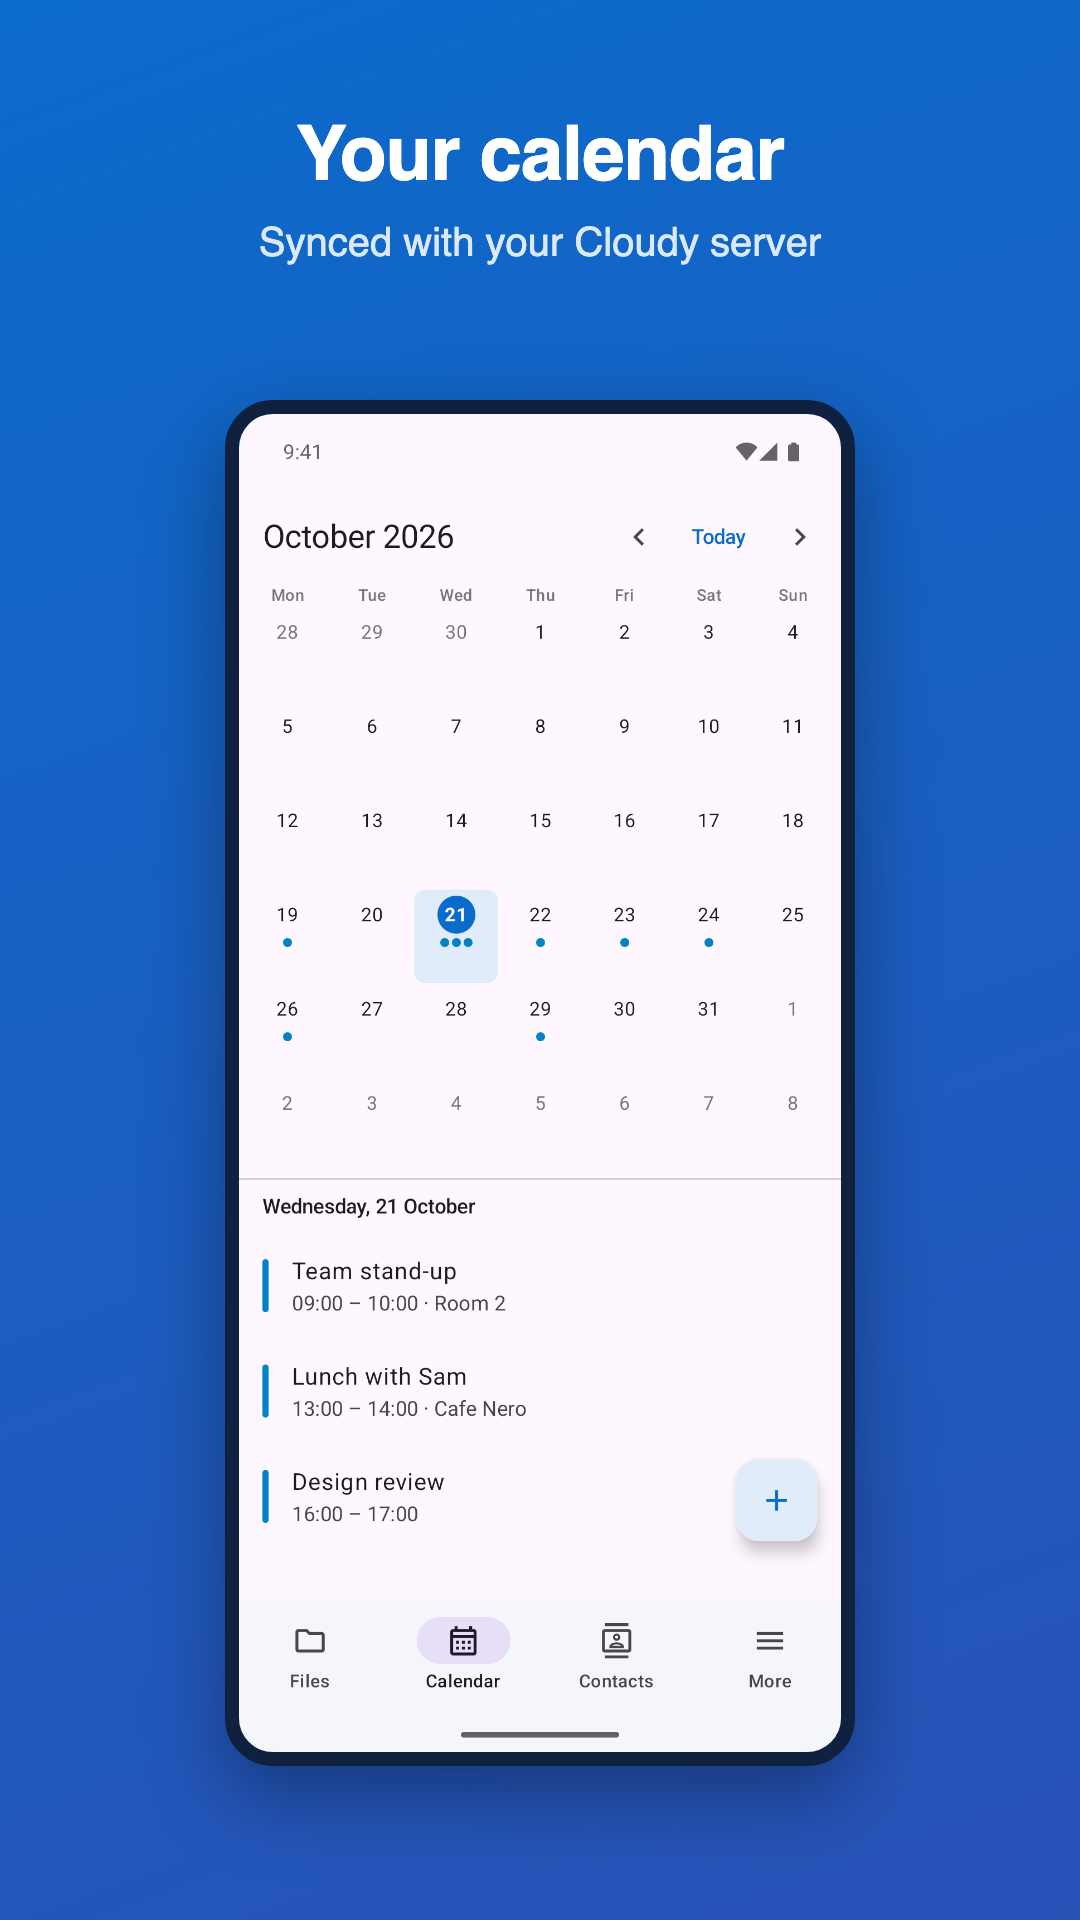
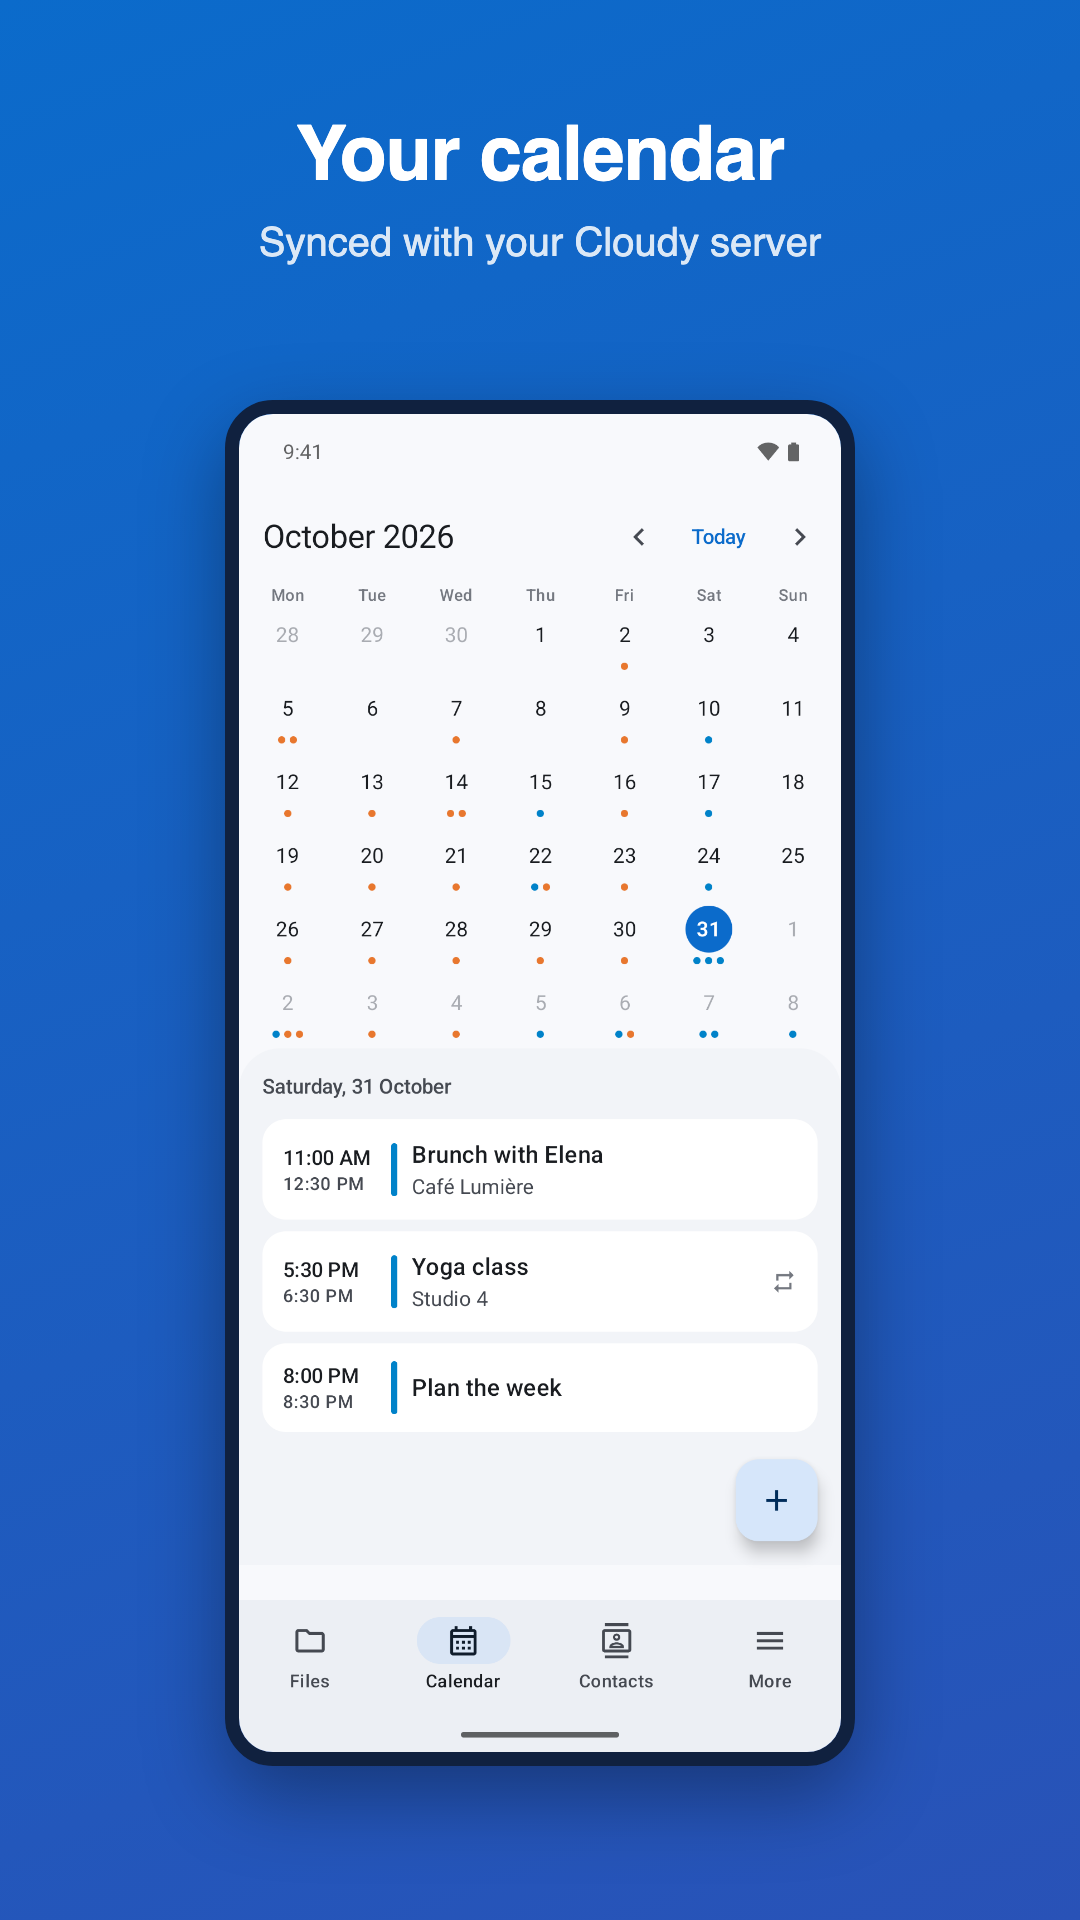
New screenshots after the 1.11 redesign: website, Google Play, App Store
Android and iPhone screenshots on the website and the Google Play images
are retaken from a fictional demo account, now with the More screen too.
ios/appstore/seed.py creates that account on a throwaway server, so the
App Store captures (7 shots + preview video) can be redone in one go.

diff --git a/docs/index.html b/docs/index.html
@@ -102,15 +102,17 @@
         <figure><img src="screenshots/photos.png" alt="Photo backup settings" loading="lazy" onerror="this.parentElement.remove()"><figcaption>Photo backup</figcaption></figure>
         <figure><img src="screenshots/calendar.png" alt="Calendar" loading="lazy" onerror="this.parentElement.remove()"><figcaption>Calendar</figcaption></figure>
         <figure><img src="screenshots/contacts.png" alt="Contacts" loading="lazy" onerror="this.parentElement.remove()"><figcaption>Contacts</figcaption></figure>
+        <figure><img src="screenshots/more.png" alt="More screen: favorites, shared files, trash and settings" loading="lazy" onerror="this.parentElement.remove()"><figcaption>More</figcaption></figure>
       </div>
           <h3>iPhone</h3>
       <div class="shots">
         <figure><img src="screenshots/iphone/files.jpg" alt="File browser" loading="lazy" onerror="this.parentElement.remove()"><figcaption>Files</figcaption></figure>
-        <figure><img src="screenshots/iphone/folder.jpg" alt="Folder in a grid" loading="lazy" onerror="this.parentElement.remove()"><figcaption>Grid view</figcaption></figure>
+        <figure><img src="screenshots/iphone/photos.jpg" alt="Photos folder in a grid with thumbnails" loading="lazy" onerror="this.parentElement.remove()"><figcaption>Grid view</figcaption></figure>
         <figure><img src="screenshots/iphone/share.jpg" alt="Sharing a file" loading="lazy" onerror="this.parentElement.remove()"><figcaption>Sharing</figcaption></figure>
         <figure><img src="screenshots/iphone/editor.jpg" alt="Text editor" loading="lazy" onerror="this.parentElement.remove()"><figcaption>Text editor</figcaption></figure>
         <figure><img src="screenshots/iphone/calendar.jpg" alt="Calendar" loading="lazy" onerror="this.parentElement.remove()"><figcaption>Calendar</figcaption></figure>
         <figure><img src="screenshots/iphone/contacts.jpg" alt="Contacts" loading="lazy" onerror="this.parentElement.remove()"><figcaption>Contacts</figcaption></figure>
+        <figure><img src="screenshots/iphone/more.jpg" alt="More tab: favorites, shared files, trash and settings" loading="lazy" onerror="this.parentElement.remove()"><figcaption>More</figcaption></figure>
       </div>
       <h3>Mac, Windows and Linux</h3>
       <div class="shots desktop">

diff --git a/ios/appstore/seed.py b/ios/appstore/seed.py
@@ -1,0 +1,215 @@
+"""Fills a fresh, throwaway Cloudy server with the fictional demo account used for the App Store captures (README.md).
+Usage: python3 -I ios/appstore/seed.py <server url> <admin password> [<database url>]
+Creates user `sarah` (password printed at the end) with folders, files, photos, shares, two calendars around today and
+an address book, then backdates file dates in the database (if given) so lists show varied dates instead of "today".
+Prints the device token and the CLOUDY_OPEN / CLOUDY_TOUR values. Photos are drawn with headless Chrome (render.py's path).
+Never run it against a real server."""
+import base64, datetime as dt, json, os, random, subprocess, sys, tempfile, urllib.error, urllib.request, uuid
+
+BASE, ADMIN_PW = sys.argv[1].rstrip('/'), sys.argv[2]
+DB = sys.argv[3] if len(sys.argv) > 3 else None
+CHROME = '/Applications/Google Chrome.app/Contents/MacOS/Google Chrome'
+USER, PW, NAME = 'sarah', 'demo-' + uuid.uuid4().hex[:10], 'Sarah Collins'
+random.seed(7)
+
+
+def req(method, path, body=None, auth=None, headers=None, cookie=None):
+    h = {'X-Cloudy-Request': '1', **(headers or {})}
+    if isinstance(body, (dict, list)):
+        body, h['Content-Type'] = json.dumps(body).encode(), 'application/json'
+    elif isinstance(body, str):
+        body = body.encode()
+    if auth: h['Authorization'] = 'Basic ' + base64.b64encode(auth.encode()).decode()
+    if cookie: h['Cookie'] = cookie
+    r = urllib.request.Request(BASE + path, data=body, method=method, headers=h)
+    try:
+        resp = urllib.request.urlopen(r)
+    except urllib.error.HTTPError as e:
+        raise SystemExit(f'{method} {path}: {e.code} {e.read()[:200]!r}')
+    data = resp.read()
+    return json.loads(data) if data and 'json' in (resp.headers.get('content-type') or '') else resp
+
+
+def session(user, pw):
+    r = urllib.request.Request(BASE + '/api/login', data=json.dumps({'user': user, 'password': pw}).encode(), method='POST',
+                               headers={'X-Cloudy-Request': '1', 'Content-Type': 'application/json'})
+    return urllib.request.urlopen(r).headers['Set-Cookie'].split(';')[0]
+
+
+admin = session('admin', ADMIN_PW)
+# 50 GB as iOS shows it (decimal); for Android captures set 53687091200 (Android shows binary units).
+for uid, name in [(USER, NAME), ('daniel', 'Daniel Okafor'), ('elena', 'Elena Rossi')]:
+    req('POST', '/api/admin/users', {'id': uid, 'password': PW, 'displayName': name, 'quotaBytes': 50_000_000_000 if uid == USER else None}, cookie=admin)
+me = session(USER, PW)
+dan = session('daniel', PW)
+root = req('GET', '/api/me', cookie=me)['rootId']
+
+
+# --- photos: simple scenic gradients drawn by Chrome, so the app has real thumbnails --------------------------------
+SCENES = {
+    'Sunset at the beach': ('#ff9a5a', '#ffcf7a', '#2b6f9e', '#f2d7a6'),
+    'Mountain lake': ('#9fd3f2', '#e6f4fb', '#3f7a5a', '#2d5f8a'),
+    'Lisbon rooftops': ('#7fb8e6', '#d9eefb', '#c8693f', '#e9b07a'),
+    'Morning fog': ('#c9d6df', '#eef2f5', '#6c8a7b', '#9fb3a9'),
+    'City lights': ('#1b2a4a', '#4b3d7a', '#f2b84b', '#2a2340'),
+    'Desert road': ('#f5b46b', '#fde2b8', '#b5653a', '#8a4b2f'),
+    'Forest trail': ('#a8d5a2', '#e8f5e1', '#2f6b3a', '#5a8f4e'),
+    'Snowy peaks': ('#8cb9e8', '#f0f6fc', '#e9eef3', '#7d93ab'),
+}
+
+
+def photos():
+    out = tempfile.mkdtemp()
+    for name, (sky1, sky2, land, accent) in SCENES.items():
+        hills = ''.join(f'<path d="M0 {600 + i * 60} Q 300 {480 + i * 70 + random.randint(-60, 60)} 600 {560 + i * 60} T 1200 {520 + i * 70} V 900 H 0 Z" '
+                        f'fill="{land if i % 2 else accent}" opacity="{0.55 + i * 0.15}"/>' for i in range(3))
+        sun = f'<circle cx="{random.randint(250, 950)}" cy="{random.randint(200, 380)}" r="{random.randint(60, 110)}" fill="#fff8e7" opacity=".85"/>'
+        html = (f'<html><body style="margin:0"><svg width="1200" height="900" xmlns="http://www.w3.org/2000/svg">'
+                f'<defs><linearGradient id="s" x1="0" y1="0" x2="0" y2="1"><stop offset="0" stop-color="{sky1}"/>'
+                f'<stop offset="1" stop-color="{sky2}"/></linearGradient></defs><rect width="1200" height="900" fill="url(#s)"/>{sun}{hills}</svg></body></html>')
+        page = os.path.join(out, 'p.html')
+        open(page, 'w').write(html)
+        png = os.path.join(out, name + '.png')
+        subprocess.run([CHROME, '--headless', '--disable-gpu', '--hide-scrollbars', '--window-size=1200,900',
+                        f'--screenshot={png}', 'file://' + page], capture_output=True, check=True)
+        jpg = os.path.join(out, name + '.jpg')
+        subprocess.run(['sips', '-s', 'format', 'jpeg', '-s', 'formatOptions', '82', png, '--out', jpg], capture_output=True, check=True)
+        yield name + '.jpg', open(jpg, 'rb').read()
+
+
+# --- files -------------------------------------------------------------------------------------------------------------
+def folder(parent, name):
+    return req('POST', f'/api/nodes/{parent}/folders', {'name': name}, cookie=me)['id']
+
+
+def upload(parent, name, data):
+    up = req('POST', '/api/uploads', {'parentId': parent, 'name': name, 'size': len(data)}, cookie=me)
+    r = req('PUT', f"/api/uploads/{up['id']}", data, cookie=me, headers={'Upload-Offset': '0', 'Content-Type': 'application/octet-stream'})
+    return r['node']['id']
+
+
+def blob(size):  # files the app only lists: right type and size, no need for real content
+    return os.urandom(size)
+
+
+def text(parent, name, content):
+    return req('POST', f'/api/nodes/{parent}/files', {'name': name, 'content': content}, cookie=me)['id']
+
+
+PLANNING = """# Weekly planning
+
+## This week
+- Finish the website redesign review
+- Send the Q4 budget to Daniel
+- Book flights for the Lisbon trip
+
+## Ideas
+- Move the team photos to the shared folder
+- Try the new document scanner for receipts
+
+## Shopping
+- Coffee beans
+- Olive oil
+- Fresh basil
+"""
+
+days = {}  # node id → days ago (for backdating)
+docs, inv, pics, proj, travel = (folder(root, n) for n in ['Documents', 'Invoices', 'Photos', 'Projects', 'Travel'])
+days.update({docs: 26, inv: 22, pics: 30, proj: 19, travel: 27})
+brand, web = folder(proj, 'Brand assets'), folder(proj, 'Website redesign')
+days.update({brand: 22, web: 9})
+for name, size, ago in [('Brand guidelines.pdf', 4_800_000, 13), ('Kickoff deck.pptx', 8_300_000, 11), ('Launch video.mp4', 24_500_000, 11),
+                        ('Product specs.docx', 410_000, 34), ('Roadmap Q4.xlsx', 220_000, 37)]:
+    days[upload(proj, name, blob(size))] = ago
+days[text(proj, 'Meeting notes.txt', 'Kickoff with Elena and Daniel\n- Scope agreed\n- Next review on Friday\n')] = 31
+plan = text(root, 'Weekly planning.md', PLANNING)
+days[plan] = 1
+for name, size, ago in [('Budget 2026.xlsx', 184_000, 30), ('Family recipes.docx', 96_000, 37), ('Lisbon itinerary.pdf', 1_200_000, 6)]:
+    days[upload(root, name, blob(size))] = ago
+for name, size, ago in [('Lease agreement.pdf', 2_100_000, 80), ('Passport scan.pdf', 640_000, 120), ('Tax return 2025.pdf', 1_500_000, 150)]:
+    days[upload(docs, name, blob(size))] = ago
+for i, ago in enumerate([3, 18, 33, 48]):
+    days[upload(inv, f'Invoice 2026-{10 - i:02d}.pdf', blob(180_000 + i * 9_000))] = ago
+for i, (name, data) in enumerate(photos()):
+    days[upload(pics, name, data)] = 2 + i * 4
+days[upload(travel, 'Boarding pass.pdf', blob(320_000))] = 5
+days[upload(travel, 'Hotel booking.pdf', blob(540_000))] = 12
+for n in ['Photos', 'Budget 2026.xlsx']:
+    nid = next(c['id'] for c in req('GET', f'/api/nodes/{root}', cookie=me)['children'] if c['name'] == n)
+    req('POST', f'/api/nodes/{nid}/favorite', cookie=me)
+
+req('POST', f'/api/nodes/{proj}/shares', {'type': 'user', 'shareWith': 'elena', 'canEdit': True}, cookie=me)
+req('POST', f'/api/nodes/{travel}/shares', {'type': 'user', 'shareWith': 'daniel'}, cookie=me)
+expires = (dt.date.today() + dt.timedelta(days=14)).isoformat()
+req('POST', f'/api/nodes/{travel}/shares', {'type': 'link', 'password': 'lisbon26', 'expiresAt': expires, 'label': 'Trip photos'}, cookie=me)
+dan_root = req('GET', '/api/me', cookie=dan)['rootId']
+team = req('POST', f'/api/nodes/{dan_root}/folders', {'name': 'Team photos'}, cookie=dan)['id']
+req('POST', f'/api/nodes/{team}/shares', {'type': 'user', 'shareWith': USER}, cookie=dan)
+
+# --- calendars: events around today (floating local times) --------------------------------------------------------------
+work = req('POST', '/api/calendars', {'name': 'Work', 'color': '#E8772E'}, cookie=me)['uri']
+today = dt.date.today()
+dav = f'{USER}:{PW}'
+
+
+def event(cal, day, start, end, title, where='', rrule='', allday=False):
+    d = today + dt.timedelta(days=day)
+    uid = uuid.uuid4().hex
+    if allday:
+        when = f'DTSTART;VALUE=DATE:{d:%Y%m%d}\r\nDTEND;VALUE=DATE:{d + dt.timedelta(days=end):%Y%m%d}'
+    else:
+        when = f'DTSTART:{d:%Y%m%d}T{start}00\r\nDTEND:{d:%Y%m%d}T{end}00'
+    ics = (f'BEGIN:VCALENDAR\r\nVERSION:2.0\r\nPRODID:-//Cloudy demo//EN\r\nBEGIN:VEVENT\r\nUID:{uid}\r\nDTSTAMP:20261001T000000Z\r\n'
+           f'{when}\r\nSUMMARY:{title}\r\n' + (f'LOCATION:{where}\r\n' if where else '') + (f'RRULE:{rrule}\r\n' if rrule else '')
+           + 'END:VEVENT\r\nEND:VCALENDAR\r\n')
+    req('PUT', f'/dav/calendars/{USER}/{cal}/{uid}.ics', ics, auth=dav, headers={'Content-Type': 'text/calendar'})
+
+
+wd = today.weekday()  # events keyed to weekdays so any capture day looks like a normal week
+event('personal', 0, '1100', '1230', 'Brunch with Elena', 'Café Lumière')
+event('personal', -21, '1730', '1830', 'Yoga class', 'Studio 4', 'FREQ=WEEKLY;COUNT=10')
+event('personal', 0, '2000', '2030', 'Plan the week')
+event('personal', 2, '1900', '2130', 'Dinner with Sam', 'Olive & Thyme')
+event('personal', 5, 0, 4, 'Lisbon trip', allday=True)
+event('personal', -9, '0830', '0930', 'Dentist', 'Smile Clinic')
+event('personal', 19, 0, 1, 'Amira’s birthday', allday=True)
+event('personal', -16, '1800', '1930', 'Book club', 'City Library')
+for day, start, end, title, where in [(-26, '1000', '1100', 'Design review', 'Room 2'), (-18, '0900', '1200', 'Quarterly planning', 'Board room'),
+                                      (-17, '1230', '1330', 'Lunch with Daniel', 'Noodle Bar'), (-11, '1000', '1030', 'Website launch', ''),
+                                      (-9, '1500', '1530', '1:1 with Maya', ''), (-4, '1100', '1200', 'Client call – Northwind', 'Video call'),
+                                      (-2, '1400', '1500', 'Budget review', 'Room 1'), (2, '0930', '1030', 'Sprint kickoff', 'Room 2'),
+                                      (3, '1300', '1400', 'Brand workshop', 'Studio'), (12, '1000', '1130', 'Board meeting', 'Board room'),
+                                      (16, '1500', '1600', 'Website retro', 'Room 2')]:
+    event(work, day, start, end, title, where)
+event(work, -30, '0915', '0930', 'Team stand-up', 'Video call', 'FREQ=WEEKLY;BYDAY=MO,WE,FR;COUNT=40')
+
+# --- contacts ----------------------------------------------------------------------------------------------------------
+PEOPLE = [('Amira', 'Haddad', 'Northwind Studio', 'Creative Director'), ('Ben', 'Carter', 'Carter & Sons', 'Owner'),
+          ('Chloé', 'Martin', '', ''), ('Daniel', 'Okafor', 'Cloud Nine Labs', 'Finance Lead'), ('Elena', 'Rossi', 'Cloud Nine Labs', 'Designer'),
+          ('Farah', 'Nasser', '', ''), ('George', 'Lin', 'Brightside Health', 'Physiotherapist'), ('Hannah', 'Schmidt', '', ''),
+          ('Isaac', 'Mensah', 'Northwind Studio', 'Developer'), ('Julia', 'Fernández', '', ''), ('Karim', 'Benali', 'Atlas Travel', 'Agent'),
+          ('Lena', 'Novak', '', ''), ('Maya', 'Patel', 'Cloud Nine Labs', 'Product Manager'), ('Noah', 'Williams', '', ''),
+          ('Olivia', 'Brown', 'Greenleaf School', 'Teacher'), ('Sam', 'Taylor', '', ''), ('Yusuf', 'Kaya', 'Kaya Garage', 'Mechanic')]
+book = req('GET', '/api/addressbooks', cookie=me)[0]['uri']
+for i, (first, last, org, title) in enumerate(PEOPLE):
+    uid = uuid.uuid4().hex
+    mail = f'{first.lower().replace("é", "e")}.{last.lower().replace("á", "a")}@example.com'
+    v = (f'BEGIN:VCARD\r\nVERSION:3.0\r\nUID:{uid}\r\nFN:{first} {last}\r\nN:{last};{first};;;\r\nEMAIL;TYPE=WORK:{mail}\r\n'
+         f'TEL;TYPE=CELL:+1 555 01{i:02d} {random.randint(100, 999)}\r\n' + (f'ORG:{org}\r\nTITLE:{title}\r\n' if org else ''))
+    if first == 'Amira':
+        v += ('TEL;TYPE=WORK:+1 555 0188 210\r\nADR;TYPE=WORK:;;12 Harbour Street;Portland;OR;97201;USA\r\n'
+              'BDAY:1990-' + (today + dt.timedelta(days=19)).strftime('%m-%d') + '\r\nURL:https://northwind.example.com\r\n'
+              'NOTE:Met at the design conference. Prefers calls in the morning.\r\n')
+    req('PUT', f'/dav/addressbooks/{USER}/{book}/{uid}.vcf', v + 'END:VCARD\r\n', auth=dav, headers={'Content-Type': 'text/vcard'})
+
+# --- backdate file dates, so lists show a realistic history ------------------------------------------------------------
+if DB:
+    sql = ';'.join(f"UPDATE nodes SET mtime = now() - interval '{d} days' - interval '{random.randint(1, 600)} minutes' WHERE id = {n}"
+                   for n, d in days.items())
+    subprocess.run(['psql', DB, '-qc', sql], check=True)
+
+token = req('POST', '/api/auth/token', {'user': USER, 'password': PW, 'deviceName': 'iPhone'})['token']
+print(json.dumps({'user': USER, 'password': PW, 'token': token, 'projects': proj, 'planning': plan,
+                  'open_folder': f'folder:{proj}:Projects', 'open_text': f'text:{plan}:Weekly planning.md',
+                  'open_share': f'share:{travel}:Travel', 'contact': 'Amira Haddad',
+                  'tour': f'{proj}:Projects:{plan}:Weekly planning.md:Amira Haddad'}, indent=1))

diff --git a/ios/appstore/render.py b/ios/appstore/render.py
@@ -14,11 +14,12 @@ SIZES = [('iphone-6.9', 1320, 2868), ('iphone-6.3', 1206, 2622)]
 
 SHOTS = [  # (output, source, title, subtitle)
     ('1-files', 'files', 'Your own cloud,<br>in your pocket', 'Files, calendars and contacts on your own server'),
-    ('2-folders', 'folder', 'All your files,<br>organized', 'Browse, search, upload and preview anything'),
+    ('2-photos', 'photos', 'All your files,<br>at a glance', 'Browse, search, upload and preview anything'),
     ('3-sharing', 'share', 'Share in seconds', 'Links with a password and expiry date, or share with people'),
     ('4-calendar', 'calendar', 'Plan your days', 'Your calendars, synced with your own server'),
     ('5-contacts', 'contacts', 'Contacts that<br>stay yours', 'Import from .vcf or .csv, export any time'),
     ('6-editor', 'editor', 'Edit on the go', 'Open and edit notes and text files anywhere'),
+    ('7-more', 'more', 'Everything<br>in one place', 'Favorites, shared files, trash and settings'),
 ]
 
 PAGE = '''<!doctype html><meta charset="utf-8"><style>

diff --git a/docs/play/render.py b/docs/play/render.py
@@ -19,6 +19,7 @@ SHOTS = [  # (output, source, title, subtitle)
     ('4-calendar', 'calendar', 'Your calendar', 'Synced with your Cloudy server'),
     ('5-contacts', 'contacts', 'All your contacts', 'Import from .vcf or .csv, export any time'),
     ('6-editor', 'preview', 'Edit on the go', 'Open and edit text files anywhere'),
+    ('7-more', 'more', 'Everything in one place', 'Favorites, shared files, trash and settings'),
 ]
 
 def shot_html(src, title, sub):

diff --git a/ios/appstore/README.md b/ios/appstore/README.md
@@ -7,7 +7,7 @@ Ready to upload in App Store Connect → the app's version page → *App Preview
 
 | Slot | Screenshots | Preview video |
 |---|---|---|
-| **iPhone 6.9" Display** (required) | `en-US/iphone-6.9/*.png`, 1320×2868 | `en-US/preview-886x1920.mp4` |
+| **iPhone 6.9" Display** (required) | `en-US/iphone-6.9/*.png` (7), 1320×2868 | `en-US/preview-886x1920.mp4` |
 | iPhone 6.1"/6.3" Display (optional: scaled from 6.9" if empty) | `en-US/iphone-6.3/*.png`, 1206×2622 | the same `.mp4` (886×1920 is accepted there too) |
 
 **App icon:** not uploaded here. App Store Connect takes it from the build (`AppIcon` 1024×1024, opaque, in
@@ -38,8 +38,10 @@ python3 -I ios/appstore/render.py     # raw/*.png → en-US/iphone-6.9|6.3/*.png
 
 ## Taking new captures
 
-1. Run a local server (`docker compose -f deploy/docker-compose.yml --env-file .env up -d`) with a demo account full of
-   realistic, fictional content, and get a device token for it (`POST /api/auth/token`).
+1. Run a fresh, throwaway local server (Docker, or Postgres + `node src/server.ts` with `PORT=80`) and fill it with the
+   fictional demo account: `python3 -I ios/appstore/seed.py http://127.0.0.1 <admin password> [<database url>]`. It prints
+   the device token and the `CLOUDY_OPEN` / `CLOUDY_TOUR` values (with the database URL it also backdates file dates).
+   The simulator uses `http://cloud.local` (below); seed through `127.0.0.1`, Python's `.local` lookups are flaky.
 2. Build for the simulator (`ios/build.sh`) and use the **iPhone Pro Max** simulator (6.9", 1320×2868), light mode,
    status bar `xcrun simctl status_bar booted override --time 9:41 --batteryState charged --batteryLevel 100 …`.
 3. Debug builds open screens from the launch environment, so no tapping is needed (`Cloudy/UI/Screenshots.swift`):
@@ -80,4 +82,5 @@ ffmpeg -y -ss 2.0 -i ios/appstore/raw/tour.mov -f lavfi -i anullsrc=channel_layo
   ios/appstore/en-US/preview-886x1920.mp4
 ```
 
-`-ss 2.0` skips the app launch; check the first and last frames, since launch time varies.
+`-ss 2.0` skips the app launch; check the first and last frames, since launch time varies (2026-10-31: `-ss 2.3` and
+`stop_duration=3` to reach 29 s). Old captures are kept in `raw/_previous/` and `en-US/_previous/`.

diff --git a/docs/screenshots/README.md b/docs/screenshots/README.md
@@ -1,6 +1,9 @@
 Screenshots shown on the GitHub Pages site (`docs/index.html`); the main README links to the site instead of showing them.
 
-- Android (portrait, e.g. 1080×2400): `files.png`, `preview.png`, `sharing.png`, `photos.png`, `calendar.png`, `contacts.png`
+- Android (1080×2400 emulator captures): `files.png`, `preview.png`, `sharing.png`, `photos.png`, `calendar.png`,
+  `contacts.png`, `more.png`. Same demo account as the iPhone (`ios/appstore/seed.py`, quota 53687091200 so Android
+  shows 50 GB); `cloud.local` in the emulator via `adb root` + a bind-mounted hosts file (`chcon system_file`); status bar
+  via SystemUI demo mode. `docs/play/render.py` turns them into the Google Play screenshots.
 - iPhone: `iphone/*.jpg`, scaled from `ios/appstore/raw/` (`sips -Z 1000 -s format jpeg`)
 - Desktop: `desktop.png` (the settings window)
 

diff --git a/ios/README.md b/ios/README.md
@@ -39,6 +39,9 @@ SIMCTL_CHILD_CLOUDY_SERVER=http://localhost:8080 SIMCTL_CHILD_CLOUDY_TOKEN=<devi
   xcrun simctl launch booted io.cloudy.app
 ```
 
+**App Store screenshots and preview video:** [appstore/README.md](appstore/README.md) (`appstore/seed.py` fills a
+throwaway server with the demo account, `appstore/render.py` frames the captures).
+
 ## Code map
 
 | Path | What it does |
